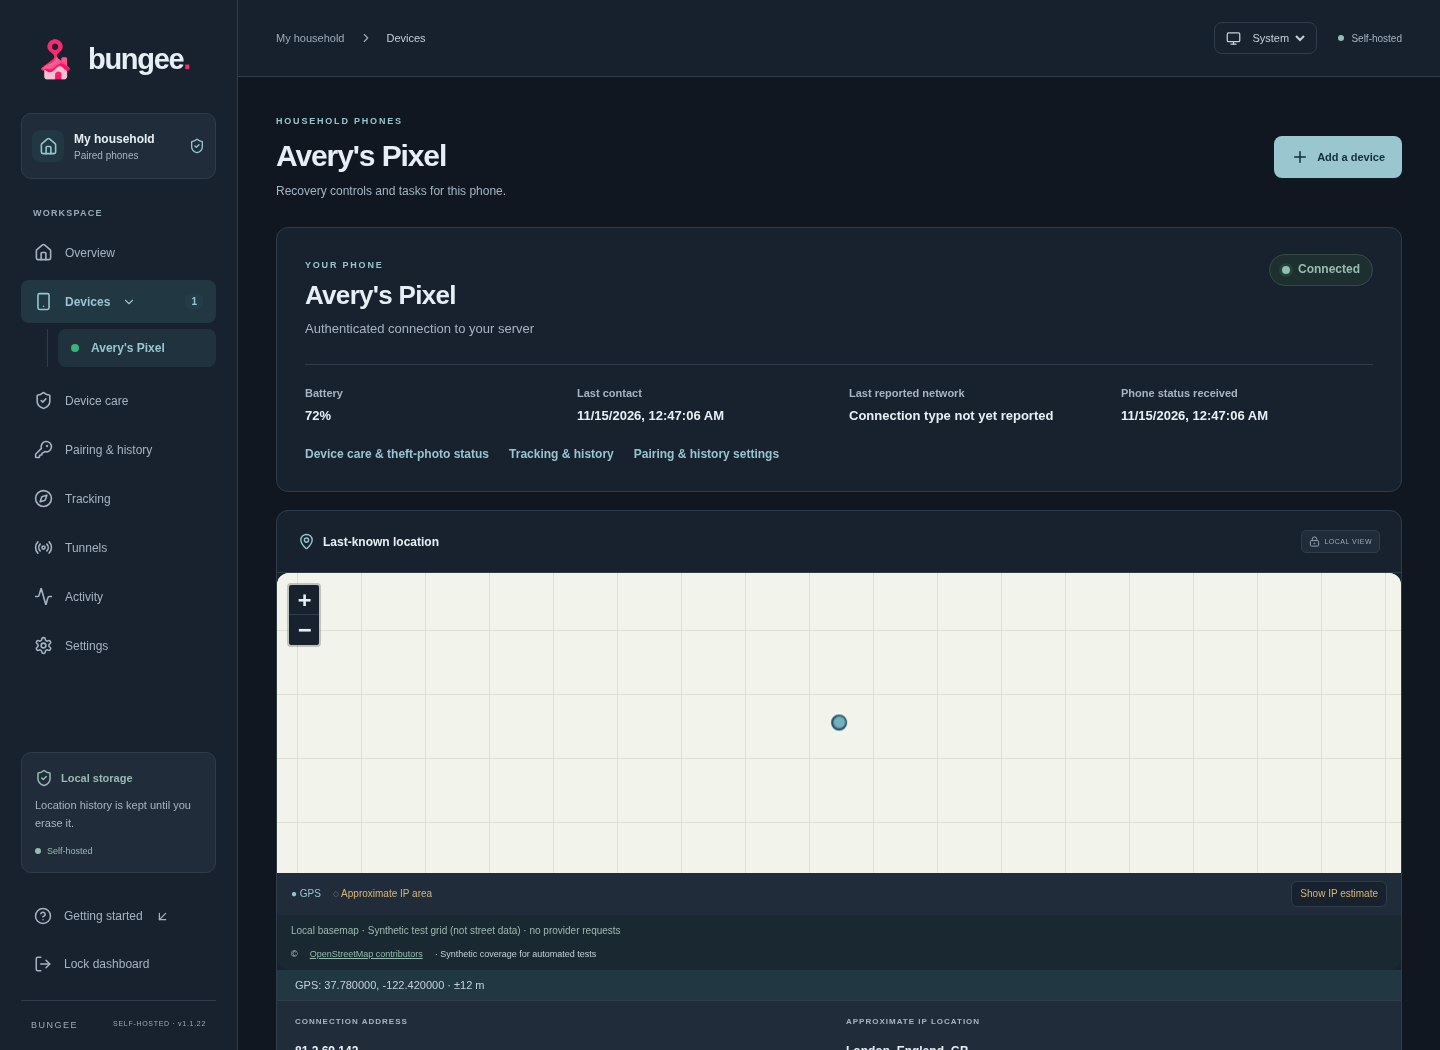
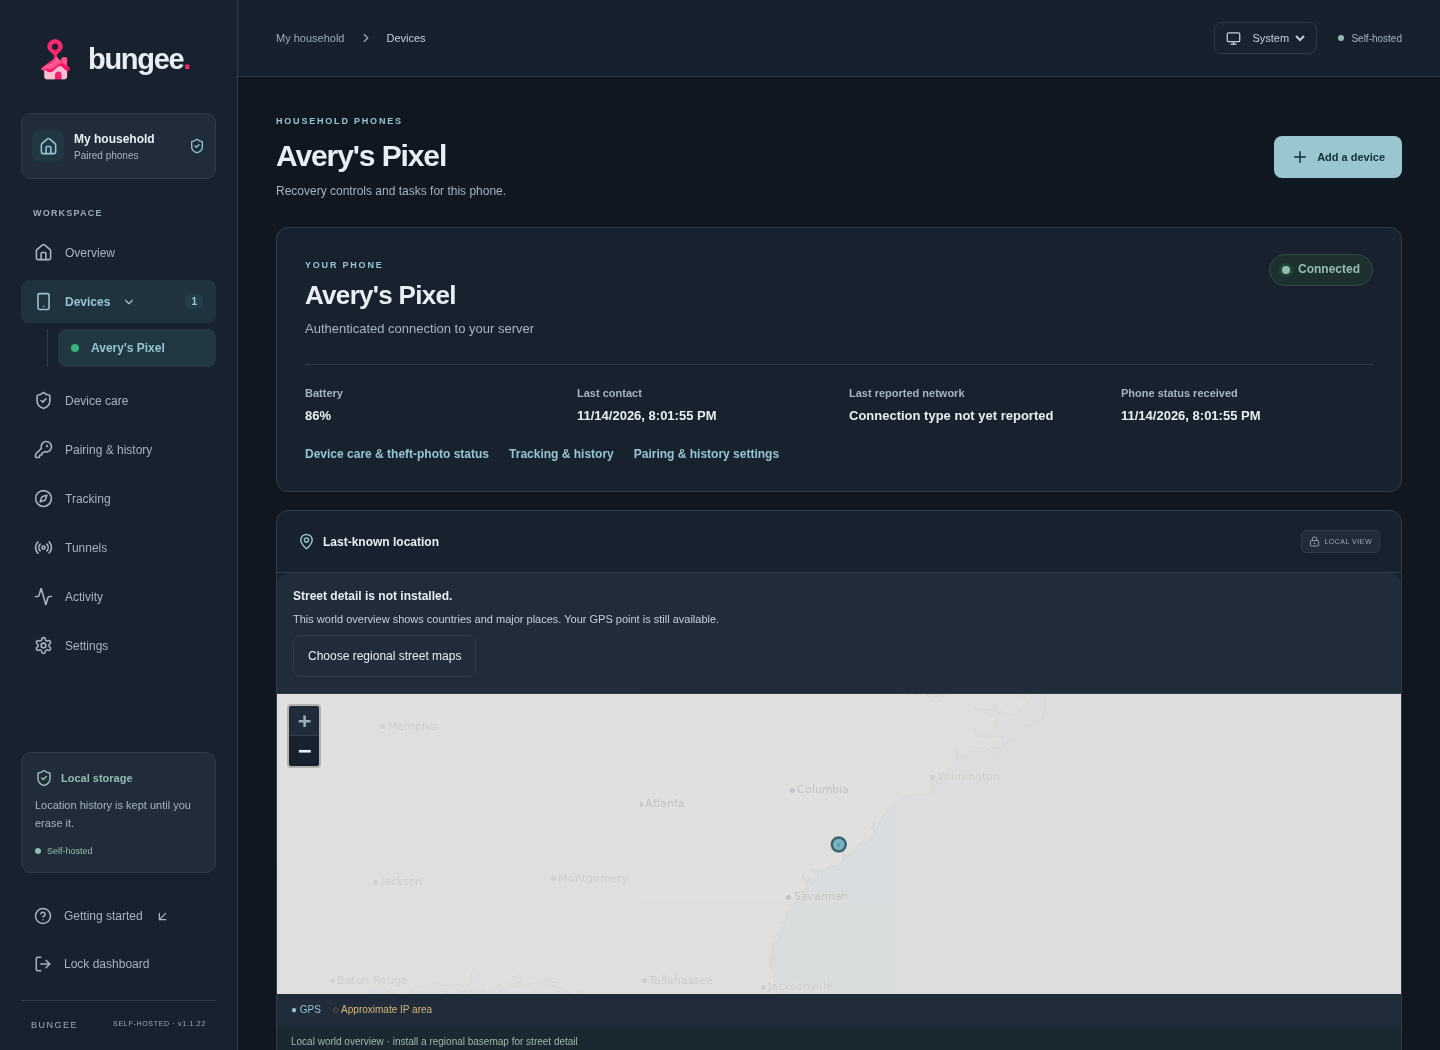
Use the bundled world map in the lead screenshot

diff --git a/web/src/style.css b/web/src/style.css
@@ -2186,7 +2186,7 @@ select {
 .settings-card .wrap { overflow-wrap:anywhere; }
 .server-updates pre { padding: 14px; border: 1px solid var(--border); border-radius: 10px; white-space: pre-wrap; overflow-wrap: anywhere; }
 .server-updates pre code { font-size: 12px; }
-.server-updates .secondary { display: inline-flex; align-items: center; gap: 8px; min-height: 42px; padding: 10px 14px; border: 1px solid var(--border); border-radius: 8px; background: var(--soft); color: var(--text); font-size: 12px; cursor: pointer; }
+.server-updates .secondary, .map-setup-notice .secondary { display: inline-flex; align-items: center; gap: 8px; min-height: 42px; padding: 10px 14px; border: 1px solid var(--border); border-radius: 8px; background: var(--soft); color: var(--text); font-size: 12px; cursor: pointer; }
 .history-import input { max-width:100%; }
 
 /* Offline map library */

diff --git a/docs/SCREENSHOTS.md b/docs/SCREENSHOTS.md
@@ -1,6 +1,6 @@
 # Screenshots
 
-These captures come from the running Bungee web manager built from the current **1.1.22** source and this documentation/update-help revision. The browser fixtures use fictional household names, signed simulated phones, synthetic locations/maps/GeoIP, disposable invitations and a synthetic camera-test image. They contain no real household records. Map fixtures demonstrate rendering and local delivery, not real geography or the production map catalogue.
+These captures come from the running Bungee web manager built from the current **1.1.22** source and this documentation/update-help revision. The browser fixtures use fictional household names, signed simulated phones, synthetic locations/GeoIP and either bundled or synthetic maps, disposable invitations and a synthetic camera-test image. They contain no real household records. The lead overview uses the actual bundled Natural Earth world map with a simulated GPS point; other map fixtures demonstrate rendering and local delivery, not real geography or the production map catalogue.
 
 Mobile captures show the **web manager at a 390-pixel viewport**, not the Android app. Notification previews are in-app illustrations. These screenshots do not establish physical Android camera, background-service or profile-switch behavior.
 
@@ -21,7 +21,7 @@ Use Node 24 and installed Chromium/Firefox (or set `CHROME_BIN`/`FIREFOX_BIN`). 
 
 ### Phone overview
 
-Desktop viewport of the main phone view.
+Desktop viewport with the real bundled Natural Earth world overview and a synthetic phone location. Street detail is explicitly not installed in this example.
 
 ![Phone overview in the Bungee web manager](screenshots/overview.png)
 

diff --git a/README.md b/README.md
@@ -89,7 +89,7 @@ The full [security design](docs/SECURITY.md) explains the trust model, network r
 
 ## More screenshots and documentation
 
-All [screenshots](docs/SCREENSHOTS.md) are captured from the running application with synthetic household data, test photos and demonstration maps. They show the web manager, including its mobile layout; notification previews illustrate Android presentation.
+All [screenshots](docs/SCREENSHOTS.md) are captured from the running application with synthetic household data and test photos. The lead image uses the real bundled world overview; other test maps are labelled demonstrations. They show the web manager, including its mobile layout; notification previews illustrate Android presentation.
 
 - [Installation and troubleshooting](docs/INSTALL.md) · [HTTPS certificates](docs/HTTPS.md)
 - [Phone and app updates](docs/MANAGEMENT.md) · [Android profiles](docs/PROFILE-COMPANIONS.md)
